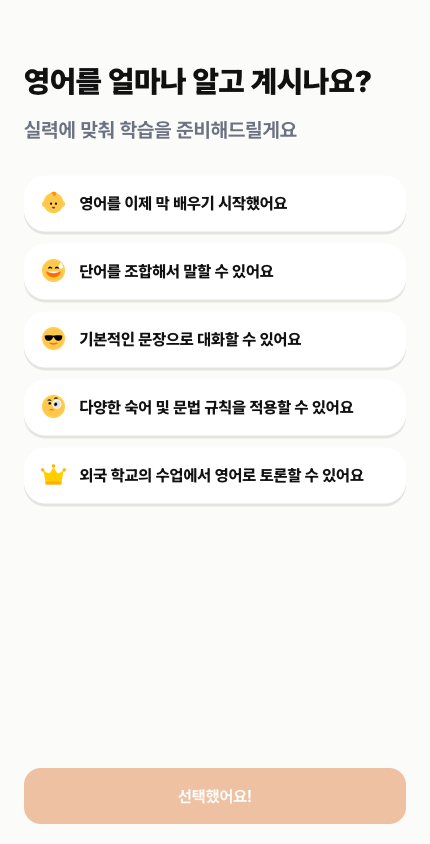
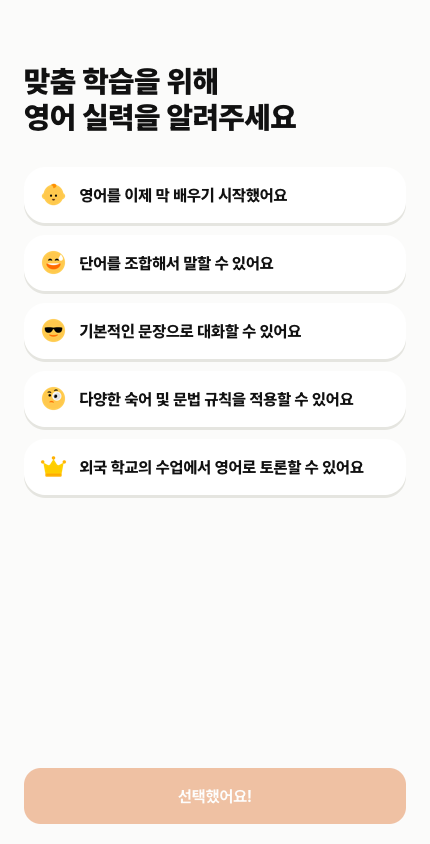
design(web): 영어 수준 헤드라인을 목적+요청 한 문장으로 확정한다
"맞춤 학습을 위해 / 영어 실력을 알려주세요" — 알림 스텝과 같은 구조라
서브카피 없이 온보딩 톤이 이어진다. 스텝·게이트 공통이고 캡처도 갱신

Changed region(s): [[0.0605, 0.2156, 0.9372, 0.6161], [0.0605, 0.0616, 0.8767, 0.1848]]

diff --git a/apps/web/src/features/onboarding/ui/steps/LevelStep.tsx b/apps/web/src/features/onboarding/ui/steps/LevelStep.tsx
@@ -12,11 +12,10 @@ export const LevelStep = ({
 }) => (
   <div className="flex min-h-0 flex-1 flex-col pt-7">
     <h1 className="text-3xl leading-[1.18] font-black tracking-normal">
-      영어를 얼마나 알고 계시나요?
+      맞춤 학습을 위해
+      <br />
+      영어 실력을 알려주세요
     </h1>
-    <p className="mt-4 text-xl font-bold text-muted-foreground">
-      실력에 맞춰 학습을 준비해드릴게요
-    </p>
 
     <div className="mt-6 flex min-h-0 flex-1 flex-col">
       <EnglishLevelForm onConfirm={onNext} />

diff --git a/apps/web/src/features/onboarding/ui/EnglishLevelGate.tsx b/apps/web/src/features/onboarding/ui/EnglishLevelGate.tsx
@@ -44,11 +44,10 @@ export const EnglishLevelGate = () => {
       }}
     >
       <h1 className="pt-10 text-3xl leading-[1.18] font-black tracking-normal">
-        영어를 얼마나 알고 계시나요?
+        맞춤 학습을 위해
+        <br />
+        영어 실력을 알려주세요
       </h1>
-      <p className="mt-4 text-xl font-bold text-muted-foreground">
-        실력에 맞춰 학습을 준비해드릴게요
-      </p>
 
       <div className="mt-8 flex min-h-0 flex-1 flex-col">
         <EnglishLevelForm onConfirm={confirm} />
